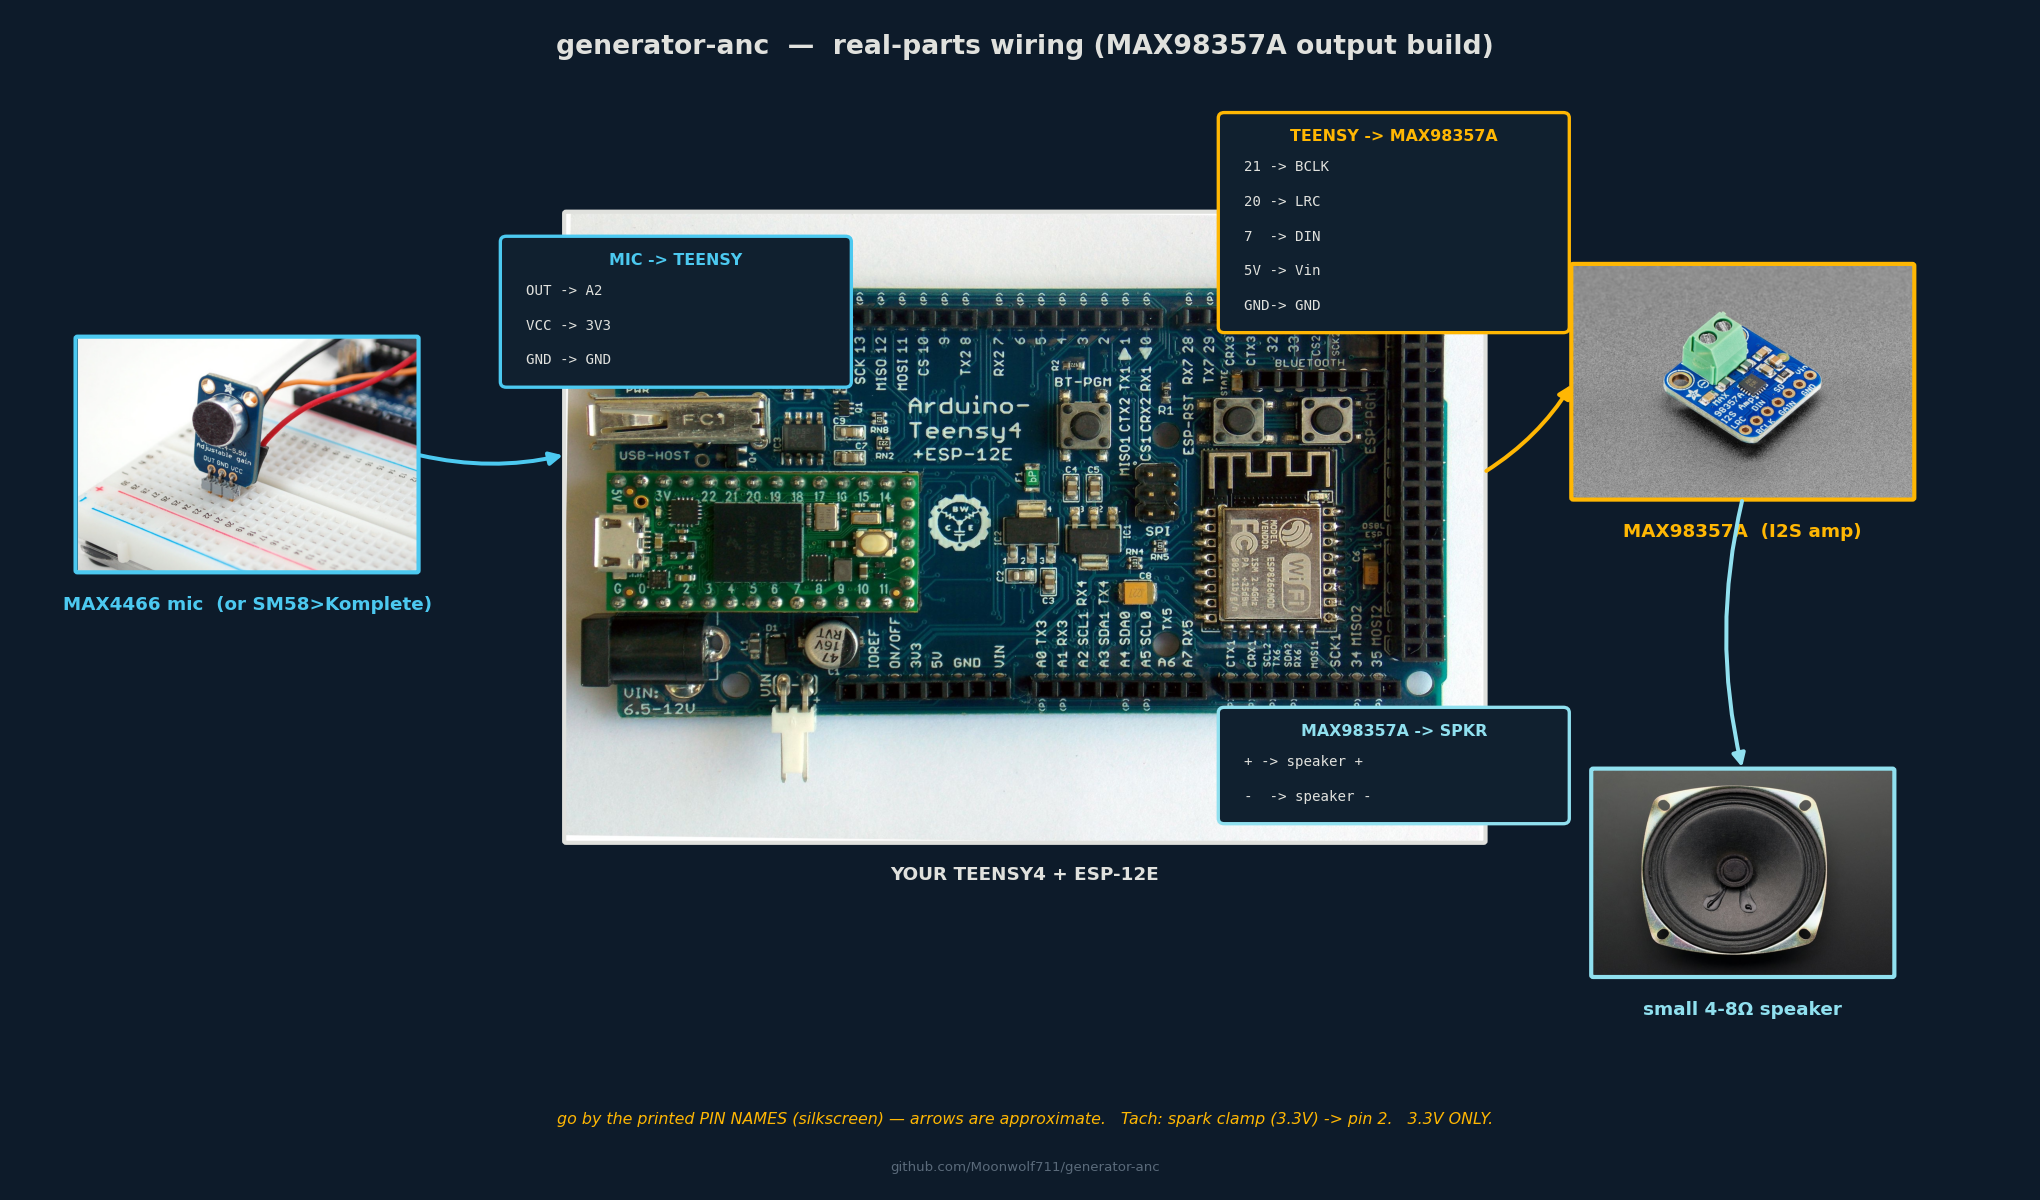
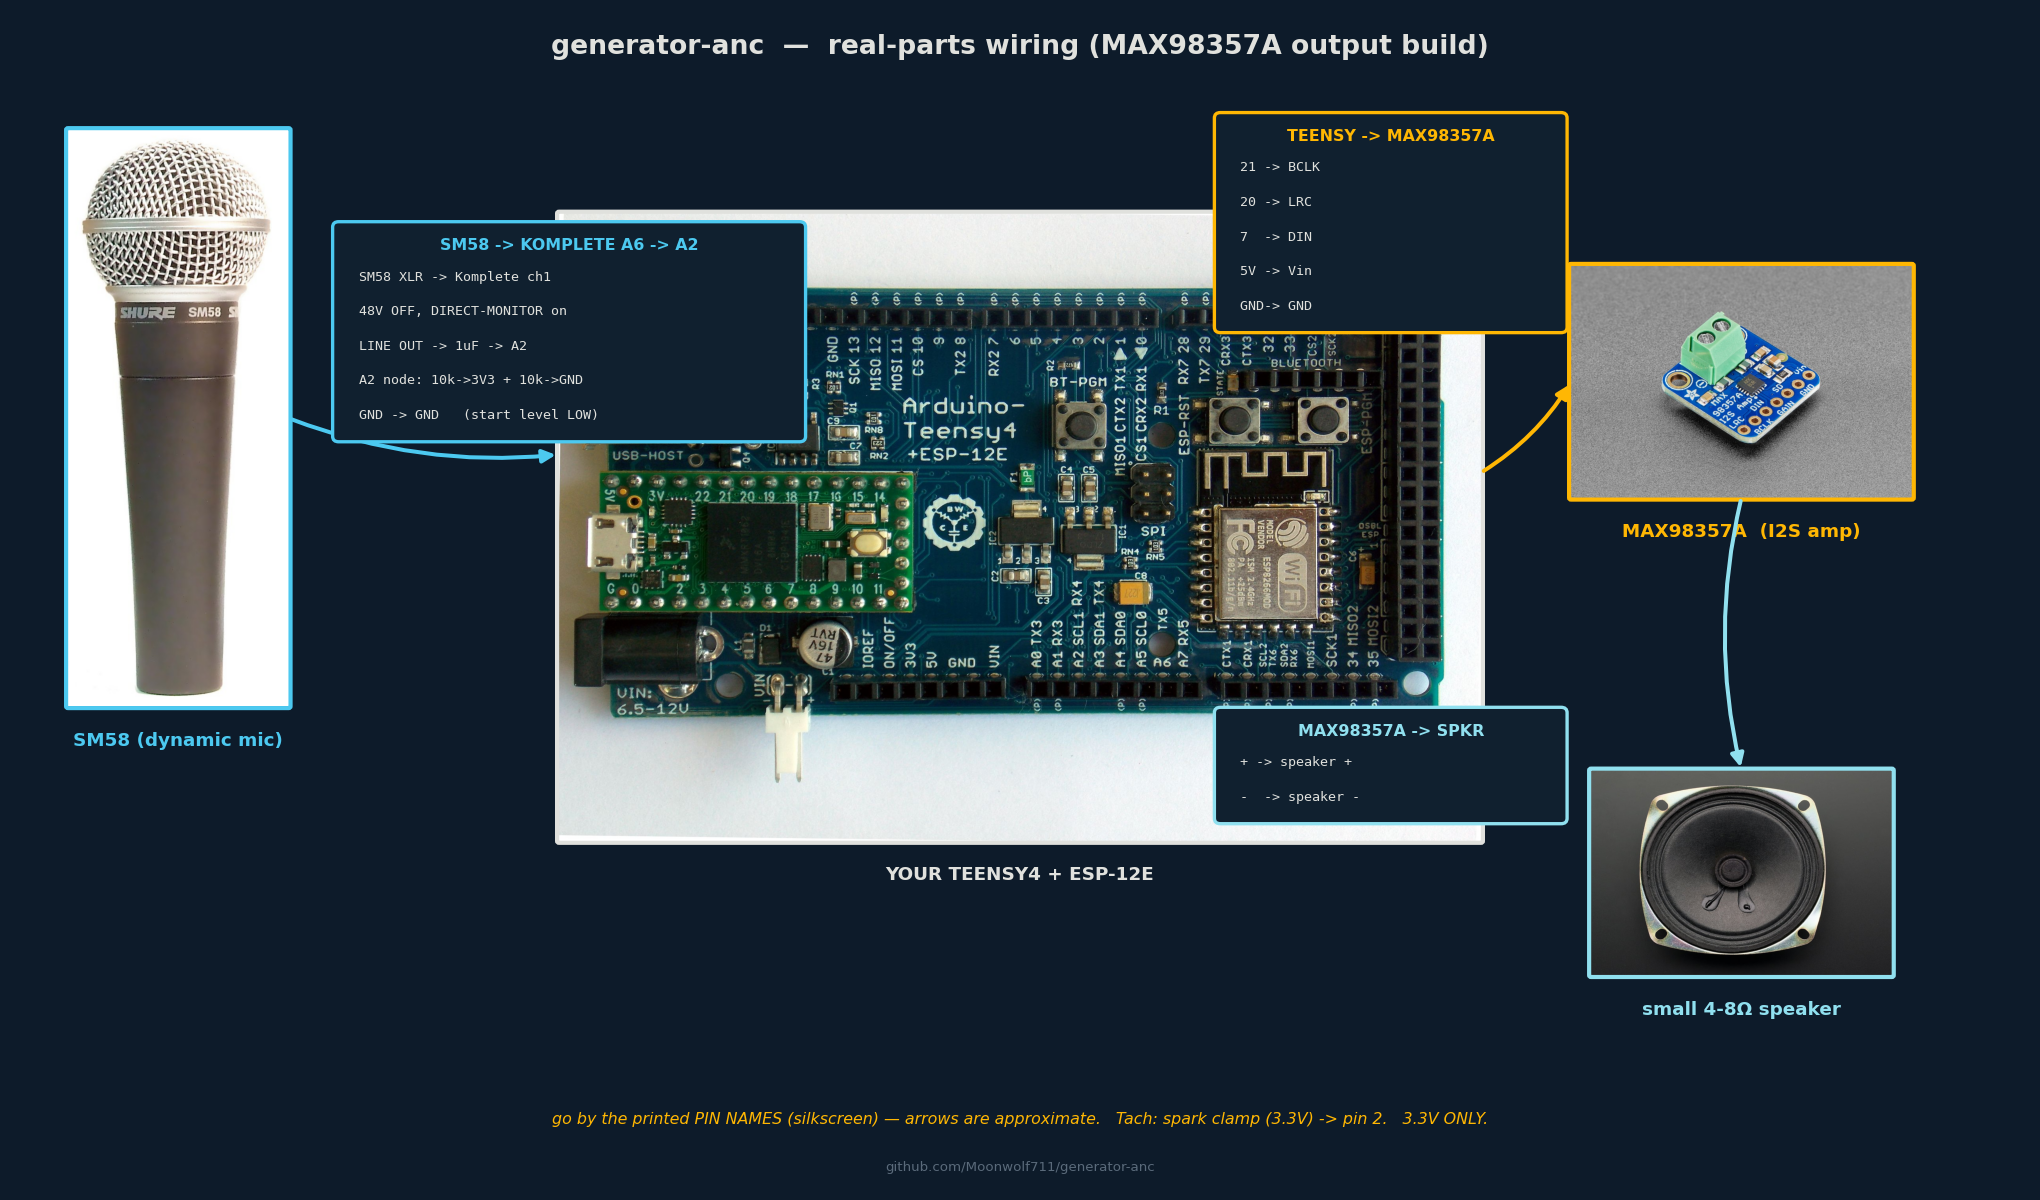
docs: photo wiring with SM58->Komplete mic chain (user's actual parts)

diff --git a/docs/make_photo_wiring.py b/docs/make_photo_wiring.py
@@ -26,24 +26,27 @@ def place(path, cx, cy, w, label, lcol):
 T  = place(r"C:\Users\Owner\OneDrive\Desktop\teensy.jpg", 50, 36, 46, "YOUR TEENSY4 + ESP-12E", C_TXT)
 MA = place("docs/parts/max98357a.jpg", 86, 44, 17, "MAX98357A  (I2S amp)", C_OUT)
 SP = place("docs/parts/speaker.jpg", 86, 17, 15, "small 4-8Ω speaker", C_SPK)
-MI = place("docs/parts/max4466.jpg", 11, 40, 17, "MAX4466 mic  (or SM58>Komplete)", C_MIC)
+MI = place("docs/parts/sm58.jpg", 8, 42, 11, "SM58 (dynamic mic)", C_MIC)
 
-def maplabel(x, y, title, rows, col):
-    ax.add_patch(FancyBboxPatch((x, y), 17, 2.0+len(rows)*1.9, boxstyle="round,pad=0.3",
+def maplabel(x, y, title, rows, col, w=17):
+    ax.add_patch(FancyBboxPatch((x, y), w, 2.0+len(rows)*1.9, boxstyle="round,pad=0.3",
                                 fc="#10202f", ec=col, lw=2, zorder=5))
-    ax.text(x+8.5, y+1.4+len(rows)*1.9, title, ha="center", va="top", color=col,
+    ax.text(x+w/2, y+1.4+len(rows)*1.9, title, ha="center", va="top", color=col,
             fontsize=9.5, fontweight="bold", zorder=6)
     for i, r in enumerate(rows):
         ax.text(x+1, y+0.8+(len(rows)-1-i)*1.9, r, ha="left", va="bottom", color=C_TXT,
-                fontsize=8.5, family="monospace", zorder=6)
+                fontsize=8, family="monospace", zorder=6)
 
 def wire(p1, p2, col):
     ax.add_patch(FancyArrowPatch(p1, p2, arrowstyle="-|>", mutation_scale=16, lw=2.4,
                                  color=col, connectionstyle="arc3,rad=0.12", zorder=4))
 
-# MIC -> Teensy
+# SM58 -> Komplete -> A2
 wire((MI["r"], MI["cy"]), (T["l"], T["cy"]+4), C_MIC)
-maplabel(24, 44, "MIC -> TEENSY", ["OUT -> A2", "VCC -> 3V3", "GND -> GND"], C_MIC)
+maplabel(16, 41, "SM58 -> KOMPLETE A6 -> A2",
+         ["SM58 XLR -> Komplete ch1", "48V OFF, DIRECT-MONITOR on",
+          "LINE OUT -> 1uF -> A2", "A2 node: 10k->3V3 + 10k->GND",
+          "GND -> GND   (start level LOW)"], C_MIC, w=23)
 
 # Teensy -> MAX98357A (I2S)
 wire((T["r"], T["cy"]+3), (MA["l"], MA["cy"]), C_OUT)